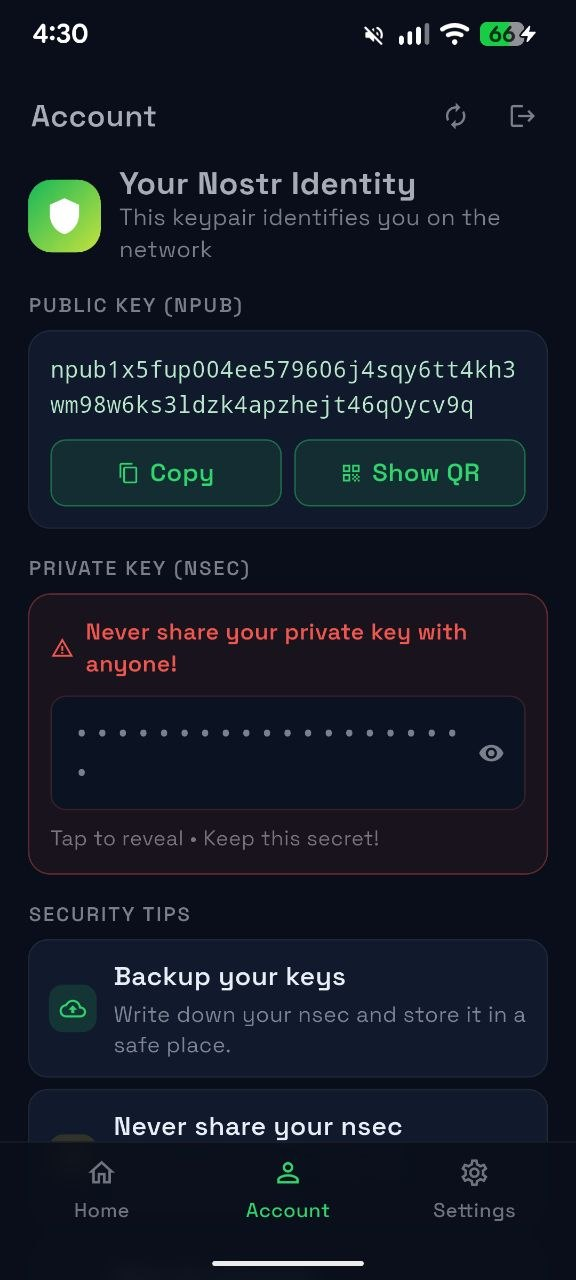
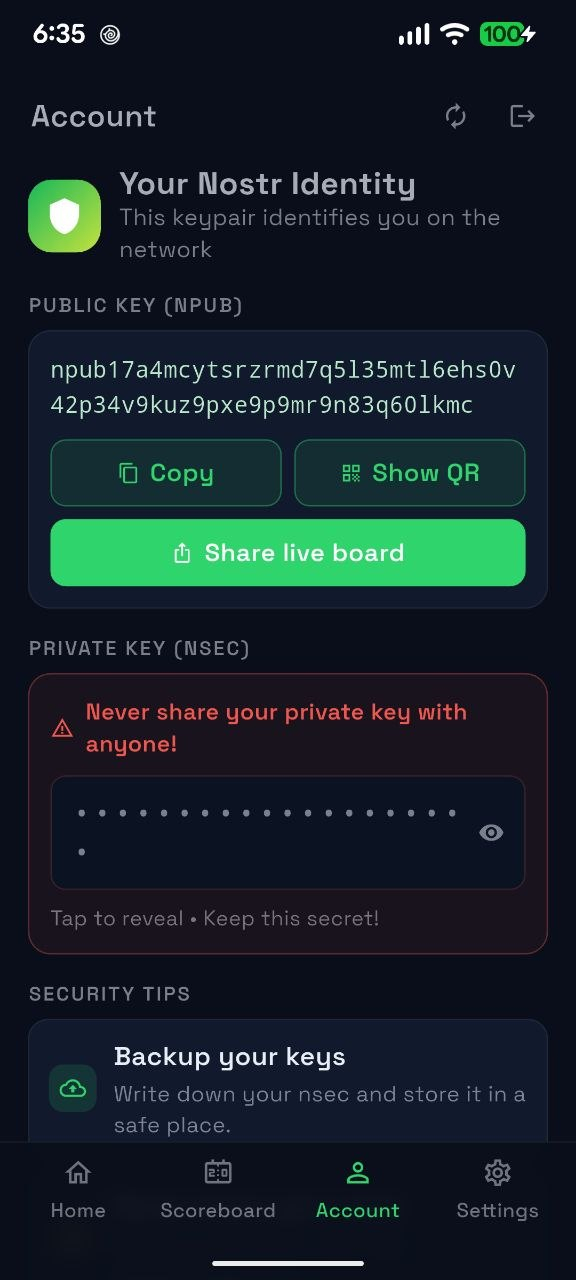
feat: add Linux and Windows downloads to the Choke landing
Desktop binaries are now published on GitHub Releases, so the landing
needs to point at them without pulling focus away from Google Play.

- Add a DesktopBadges component with Tux and Windows logos, both linking
  to the latest release. It renders below the Play badge in the hero and
  in the download CTA, keeping mobile as the primary call to action.
- Frame the live scoring screenshot as a phone in landscape instead of a
  desktop browser window — that is how the device is actually held when
  scoring a match.
- Drop the "ever"/"nunca" tail from the no-accounts feature title in
  English and Portuguese so the three locales read the same.
- Update the platforms FAQ: iOS out, Linux and Windows in.
- Refresh the account, home and settings screenshots and remove the
  unused logo-c.png.

diff --git a/src/i18n/ui.ts b/src/i18n/ui.ts
@@ -91,6 +91,12 @@ const en = {
       getApp: `Get the app`,
     },
     getItOn: `GET IT ON`,
+    desktop: {
+      label: `Also available for desktop`,
+      linux: `Linux`,
+      windows: `Windows`,
+      hint: `Download the latest release`,
+    },
     hero: {
       badge: `Real-time BJJ scoring`,
       titleHtml: `Score the match.<br><span class="accent">Everyone watches</span><br>it live.`,
@@ -108,7 +114,7 @@ const en = {
         { title: `Instant real-time scoring`, desc: `Big thumb-friendly buttons for takedowns, sweeps, passes, mounts, advantages and penalties. Every tap updates the board immediately.` },
         { title: `Countdown timer`, desc: `Set the round length once, then run every match with a clean second-by-second countdown, pause and finish controls.` },
         { title: `Public live results`, desc: `Scores publish straight to <a class="gold-link" href="https://bjjscore.live" target="_blank" rel="noopener">bjjscore.live</a> — spectators and remote coaches follow along with zero setup.` },
-        { title: `No accounts, ever`, desc: `Open the app and start scoring. Your identity is a secure key generated on your device — no sign-up, no email, no password.` },
+        { title: `No accounts`, desc: `Open the app and start scoring. Your identity is a secure key generated on your device — no sign-up, no email, no password.` },
         { title: `Team scoring, safely`, desc: `Hand a match to a helper with a one-off match key — they score on their phone without ever touching your private key.` },
         { title: `Submission tracking`, desc: `Finish a match by submission and log the technique — armbar, RNC, triangle and more — for a complete record of the bout.` },
       ],
@@ -158,7 +164,7 @@ const en = {
         { q: `How do spectators watch the results?`, a: `Every match you score is published live to <a class="gold-link" href="https://bjjscore.live" target="_blank" rel="noopener">bjjscore.live</a>. Share the public key (npub) from your Account tab, and anyone can follow your matches there — great for projecting at a venue.` },
         { q: `Do I need to create an account?`, a: `No. When you install the app a secure keypair is generated on your device. That key is your identity — back it up and keep the private part (nsec) secret.` },
         { q: `Can a helper score matches for me?`, a: `Yes. You can delegate a single match to a teammate using an ephemeral match key, so multiple people can run the scoring table without ever sharing your private key.` },
-        { q: `Which platforms are supported?`, a: `Choke is available for Android on Google Play, with iOS in the works. It's built with Flutter, so the same experience runs everywhere.` },
+        { q: `Which platforms are supported?`, a: `Choke is available for Android on Google Play, and as a desktop build for Linux and Windows. It's built with Flutter, so the same experience runs everywhere.` },
       ],
     },
     cta: {
@@ -253,6 +259,12 @@ const es: typeof en = {
       getApp: `Descargar app`,
     },
     getItOn: `DISPONIBLE EN`,
+    desktop: {
+      label: `También disponible para escritorio`,
+      linux: `Linux`,
+      windows: `Windows`,
+      hint: `Descarga la última versión`,
+    },
     hero: {
       badge: `Puntuación de BJJ en tiempo real`,
       titleHtml: `Puntúa el combate.<br><span class="accent">Todos lo ven</span><br>en vivo.`,
@@ -320,7 +332,7 @@ const es: typeof en = {
         { q: `¿Cómo ven los espectadores los resultados?`, a: `Cada combate que puntúas se publica en vivo en <a class="gold-link" href="https://bjjscore.live" target="_blank" rel="noopener">bjjscore.live</a>. Comparte la clave pública (npub) de tu pestaña Cuenta y cualquiera puede seguir tus combates ahí — ideal para proyectar en un recinto.` },
         { q: `¿Necesito crear una cuenta?`, a: `No. Al instalar la app se genera un par de claves seguro en tu dispositivo. Esa clave es tu identidad — haz una copia de seguridad y mantén en secreto la parte privada (nsec).` },
         { q: `¿Puede un ayudante puntuar combates por mí?`, a: `Sí. Puedes delegar un solo combate a un compañero mediante una clave de combate efímera, para que varias personas dirijan la mesa sin compartir nunca tu clave privada.` },
-        { q: `¿Qué plataformas son compatibles?`, a: `Choke está disponible para Android en Google Play, con iOS en camino. Está hecho con Flutter, así que la misma experiencia funciona en todas partes.` },
+        { q: `¿Qué plataformas son compatibles?`, a: `Choke está disponible para Android en Google Play, y como aplicación de escritorio para Linux y Windows. Está hecho con Flutter, así que la misma experiencia funciona en todas partes.` },
       ],
     },
     cta: {
@@ -415,6 +427,12 @@ const pt: typeof en = {
       getApp: `Baixar o app`,
     },
     getItOn: `DISPONÍVEL NO`,
+    desktop: {
+      label: `Também disponível para desktop`,
+      linux: `Linux`,
+      windows: `Windows`,
+      hint: `Baixe a versão mais recente`,
+    },
     hero: {
       badge: `Pontuação de BJJ em tempo real`,
       titleHtml: `Pontue a luta.<br><span class="accent">Todos assistem</span><br>ao vivo.`,
@@ -432,7 +450,7 @@ const pt: typeof en = {
         { title: `Pontuação instantânea em tempo real`, desc: `Botões grandes e fáceis de tocar para quedas, raspagens, passagens, montadas, vantagens e punições. Cada toque atualiza o placar na hora.` },
         { title: `Cronômetro regressivo`, desc: `Defina a duração do round uma vez e conduza cada luta com uma contagem regressiva segundo a segundo, com controles de pausa e fim.` },
         { title: `Resultados públicos ao vivo`, desc: `Os placares são publicados direto no <a class="gold-link" href="https://bjjscore.live" target="_blank" rel="noopener">bjjscore.live</a> — espectadores e treinadores à distância acompanham sem nenhuma configuração.` },
-        { title: `Sem contas, nunca`, desc: `Abra o app e comece a pontuar. Sua identidade é uma chave segura gerada no seu dispositivo — sem cadastro, sem e-mail, sem senha.` },
+        { title: `Sem contas`, desc: `Abra o app e comece a pontuar. Sua identidade é uma chave segura gerada no seu dispositivo — sem cadastro, sem e-mail, sem senha.` },
         { title: `Pontuação em equipe, com segurança`, desc: `Delegue uma luta a um ajudante com uma chave de luta de uso único — ele pontua pelo celular dele sem nunca tocar na sua chave privada.` },
         { title: `Registro de finalizações`, desc: `Termine uma luta por finalização e registre a técnica — armbar, mata-leão, triângulo e mais — para um histórico completo da luta.` },
       ],
@@ -482,7 +500,7 @@ const pt: typeof en = {
         { q: `Como os espectadores acompanham os resultados?`, a: `Cada luta que você pontua é publicada ao vivo no <a class="gold-link" href="https://bjjscore.live" target="_blank" rel="noopener">bjjscore.live</a>. Compartilhe a chave pública (npub) da aba Conta e qualquer um pode acompanhar suas lutas lá — ótimo para projetar em um local.` },
         { q: `Preciso criar uma conta?`, a: `Não. Ao instalar o app, um par de chaves seguro é gerado no seu dispositivo. Essa chave é a sua identidade — faça um backup e mantenha a parte privada (nsec) em segredo.` },
         { q: `Um ajudante pode pontuar lutas por mim?`, a: `Sim. Você pode delegar uma única luta a um colega usando uma chave de luta efêmera, para que várias pessoas comandem a mesa sem nunca compartilhar sua chave privada.` },
-        { q: `Quais plataformas são suportadas?`, a: `O Choke está disponível para Android na Google Play, com iOS a caminho. Foi feito com Flutter, então a mesma experiência funciona em todos os lugares.` },
+        { q: `Quais plataformas são suportadas?`, a: `O Choke está disponível para Android na Google Play, e como aplicativo de desktop para Linux e Windows. Foi feito com Flutter, então a mesma experiência funciona em todos os lugares.` },
       ],
     },
     cta: {

diff --git a/src/components/choke/config.ts b/src/components/choke/config.ts
@@ -5,6 +5,7 @@
 export const PLAY_URL = 'https://play.google.com/store/apps/details?id=io.protolayer.choke';
 export const LIVE_URL = 'https://bjjscore.live';
 export const GITHUB_URL = 'https://github.com/protolayer-io/choke';
+export const RELEASES_URL = 'https://github.com/protolayer-io/choke/releases/latest';
 
 export const CHOKE_TITLE = 'Choke — Real-time BJJ match scoring';
 export const CHOKE_DESCRIPTION =
